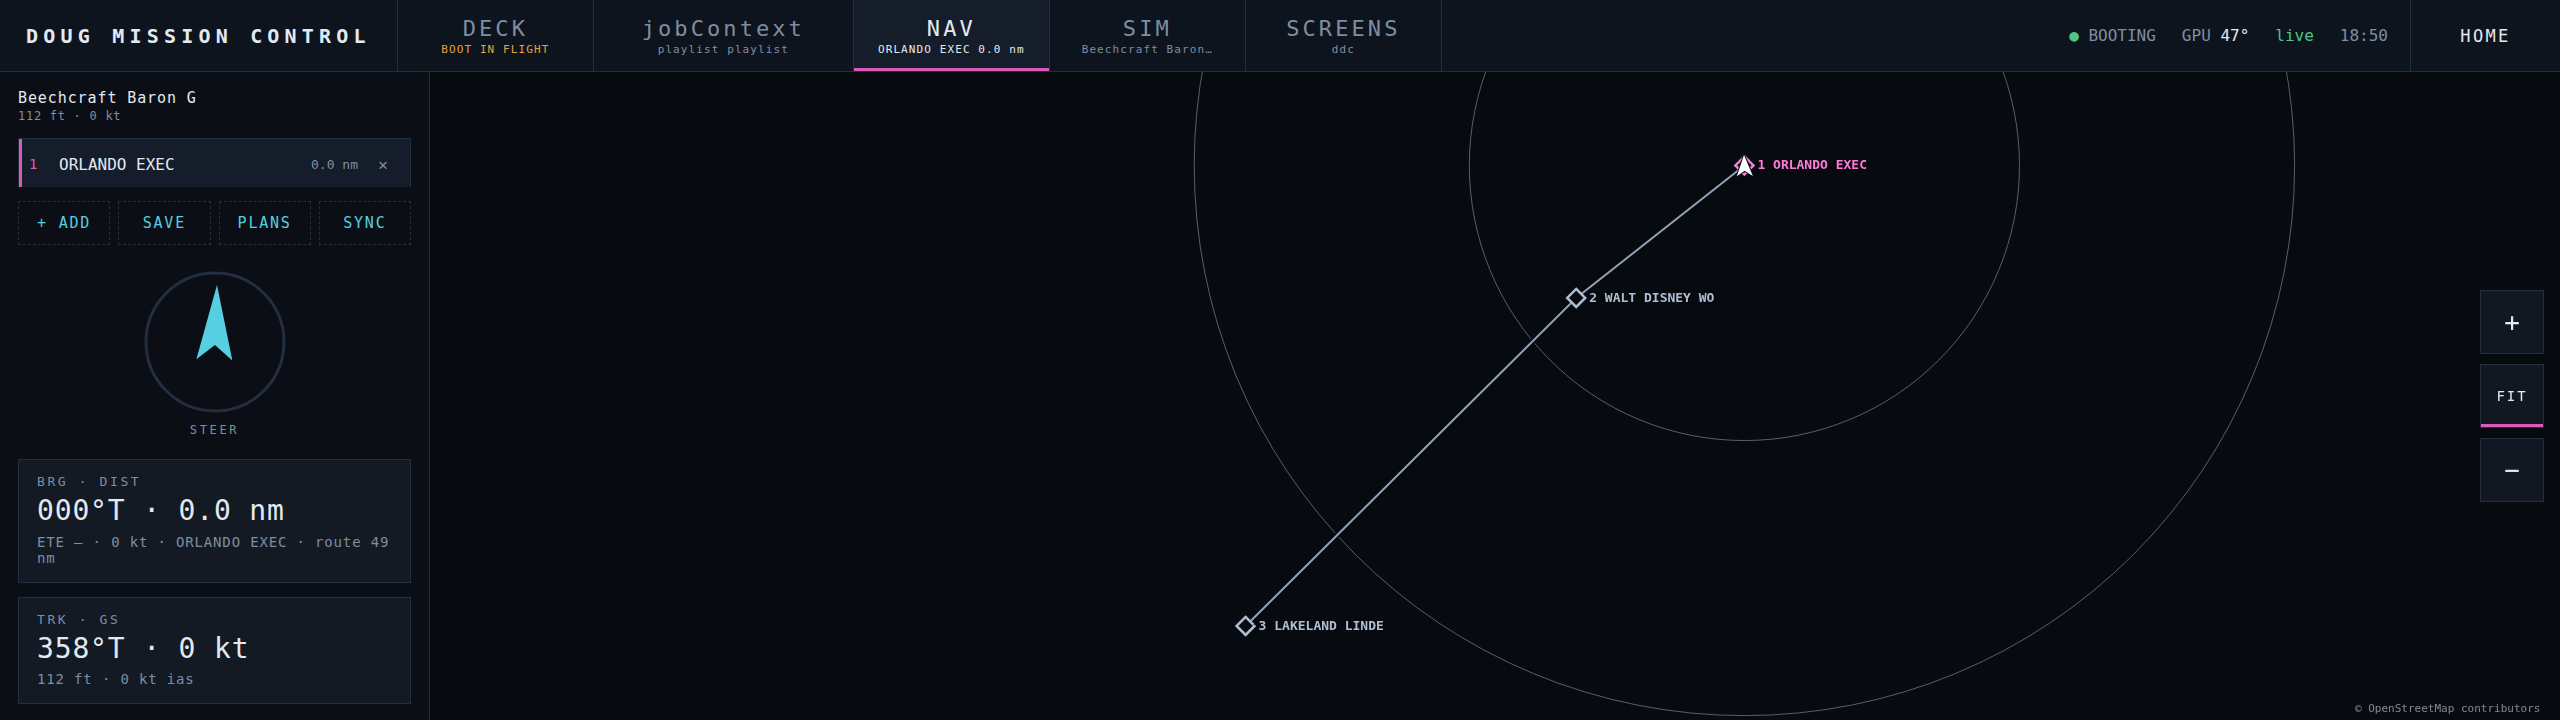
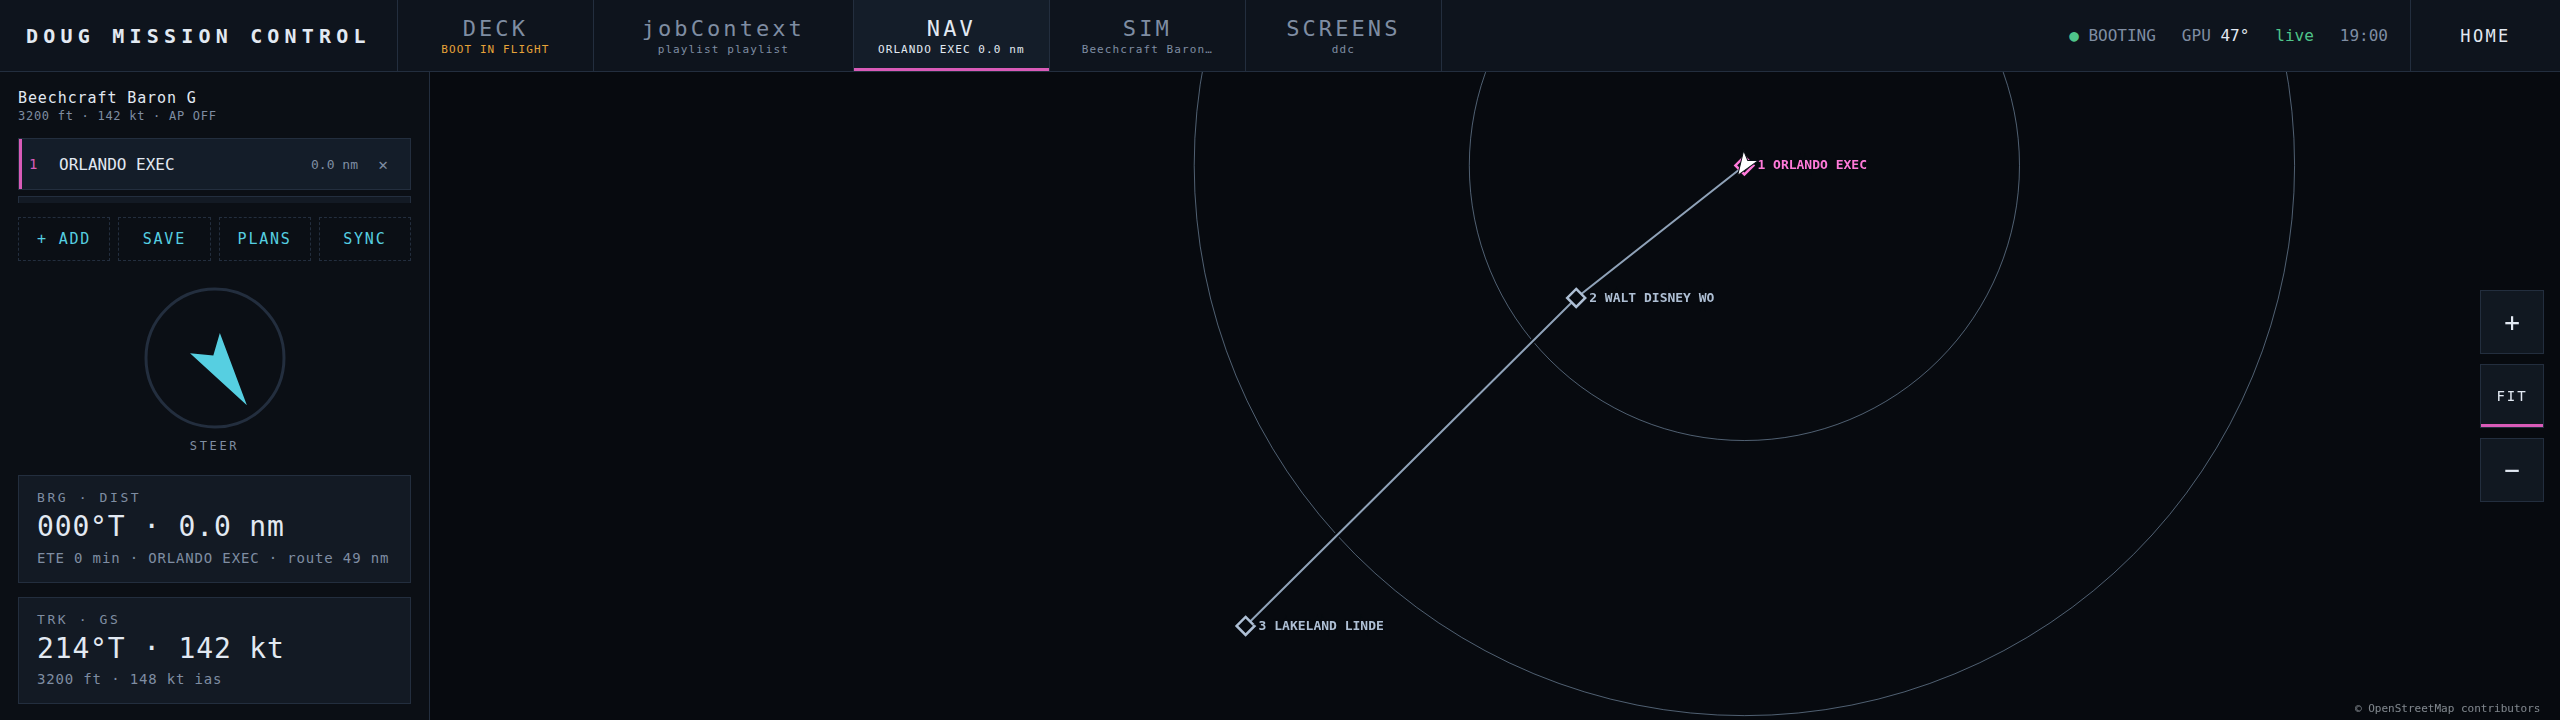
fix(deck): stop simTick reporting its own paint bugs as a dead agent
simTick wrapped the fetch AND paintSim in one catch, so any exception while
painting was repainted as {link:false} — "NO LINK", the placeholder, the
whole surface reading as a missing sim agent. The agent was answering
perfectly the entire time.

That is what SIM screenshotted as a placeholder, and it is a trap on the
real panel too: the day the agent drops a field, SIM will report the sim
gone rather than the field missing, and the search starts on the wrong
machine. The catch now covers the fetch only. A paint bug surfaces as an
unhandled rejection where it is a bug; only a real network failure claims
the link is down.

With it visible, the harness payload was wrong in four ways — gear.handle,
flaps.detents/angle_deg, xpdr.mode, and radios carrying act/sby as numbers
that cxPaint calls .toFixed(3) on. Every field is now taken from what
paintSim actually reads rather than invented, with a comment saying why an
almost-right shape is worse than none.

SIM is back in the README and renders in full: gear with its travel bar,
flaps at detent 1 of 3 with pips, the AP bugs, a banked attitude indicator,
twin RPM, and the mission strip.

NAV keeps its offline caption, now with the useful half — this host has no
route to the tile server, but running tools/screenshots.mjs anywhere with
internet returns the same image with the OpenStreetMap raster underneath.

Claude-Session: https://claude.ai/code/session_01T9WcQuSCy6V4Dd7G4jyJRa

diff --git a/pi/deck-ui/deck.js b/pi/deck-ui/deck.js
@@ -658,10 +658,19 @@ import { npPoll, npTick, paintNp } from './js/media.js';
   }
 
   function simTick() {
+    // The catch covers the FETCH only. It used to wrap paintSim too, so any
+    // exception while painting — a field the agent stopped sending, a shape
+    // that drifted — was repainted as "NO LINK" and read as a missing agent.
+    // That sent me chasing a dead sim agent that was answering perfectly.
+    // A paint bug now surfaces as an unhandled rejection in the console, where
+    // it is a bug, and only a real network failure claims the link is down.
     fetch('/api/sim', { cache: 'no-store' })
       .then(function (r) { return r.json(); })
-      .then(function (d) { simLastOk = Date.now(); paintSim(d); })
-      .catch(function () { paintSim({ link: false, reason: 'deck-api unreachable' }); });
+      .catch(function () {
+        paintSim({ link: false, reason: 'deck-api unreachable' });
+        return null;
+      })
+      .then(function (d) { if (d) { simLastOk = Date.now(); paintSim(d); } });
   }
 
   /* Commands. The panel NEVER draws the commanded position. A command puts

diff --git a/README.md b/README.md
@@ -182,9 +182,11 @@ search hits real OpenStreetMap data, plans are saved on the Pi, and the trail
 is where the aircraft has actually been. Pinch to zoom; FIT hands framing back
 to the auto-fit.
 
-The render below is **offline**, so the OpenStreetMap raster tiles are absent
-and only Flight Deck's own symbology is drawn — route, waypoints, aircraft,
-range rings. On the panel those sit over real map tiles.
+The render below was made on a host with no route to the tile server, so only
+Flight Deck's own symbology is drawn — route, waypoints, aircraft, range rings.
+Run `node tools/screenshots.mjs` anywhere with internet and the same image
+comes back with the OpenStreetMap raster underneath, exactly as the panel
+draws it.
 
 ![NAV](docs/img/nav.png)
 
@@ -193,8 +195,7 @@ never draws the commanded state: a tap shows PENDING over the last *observed*
 value, and only the simulator moving it changes what you see. That is what
 makes a command MSFS ignored look like a failed command instead of a lie.
 
-*Not shown: SIM needs a live SimConnect session to render anything, and the
-offline harness only reaches its placeholder. Capture this one on the rig.*
+![SIM](docs/img/sim.png)
 
 **SCREENS** — one card per monitor, named by its position on the desk, with a
 button per input the panel declares. DDC/CI over whichever OS is booted:
